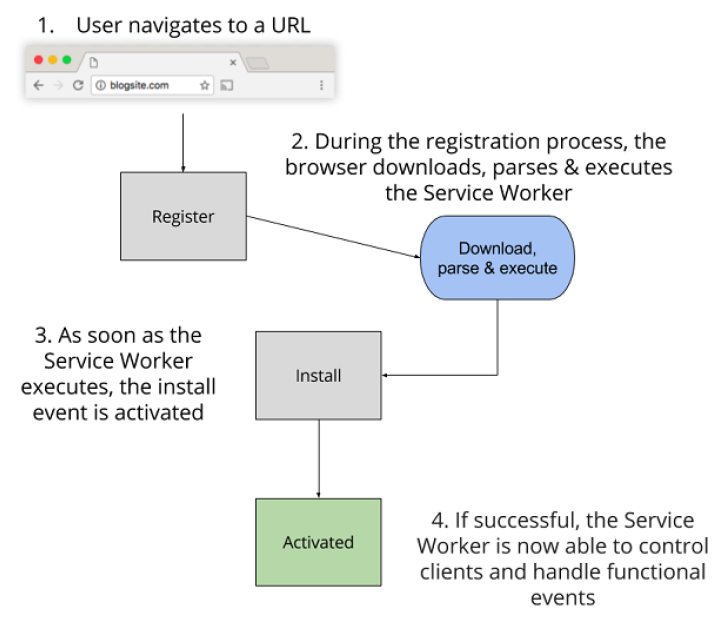
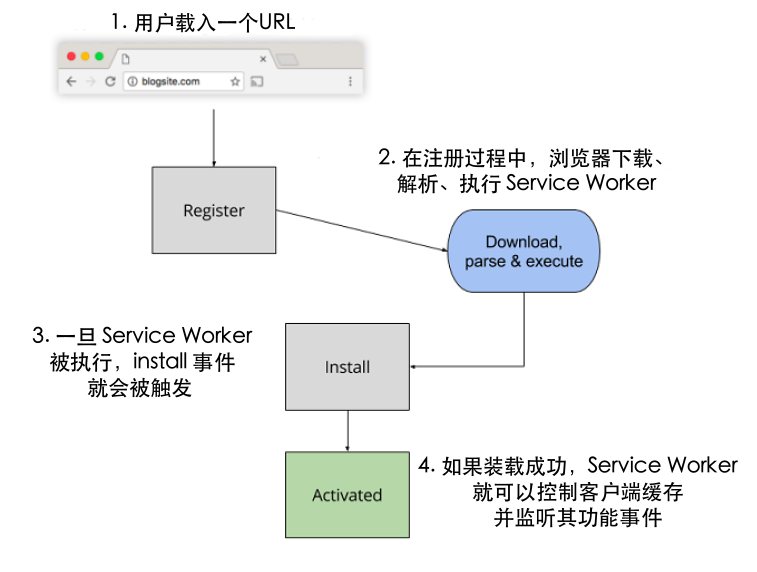
polish 4.2 and translate some images (#25)

Changed region(s): [[0.0303, 0.208, 0.9697, 0.9808], [0.0303, 0.0, 0.4242, 0.1486], [0.4242, 0.0594, 0.4848, 0.1486]]

diff --git a/ch04/4.2.md b/ch04/4.2.md
@@ -41,7 +41,7 @@ self.addEventListener('fetch', function (event) {                               
 * ❷ 检查传入的 HTTP 请求是否是 JPEG 类型的图片
 * ❸ 创建自定义 Response 并作出相应地响应
 
-在清单4.5中，代码通过监听 fetch 事件的触发来拦截任何 HTTP 请求。接下来，它判断传入请求是否是 JPEG 文件，如果是的话，就使用自定义 HTTP 响应进行响应。使用 Service Workers ，你能够创建自定义 HTTP 响应，包括编辑响应首部。此功能使得 Service Workers 极其强大，同时也可以理解为什么它们需要通过 HTTPS 提供请求。想象一下，黑客可以通过动动手指便完成一些恶意的操作！
+在清单4.5中，代码通过监听 fetch 事件的触发来拦截任何 HTTP 请求。接下来，它判断传入请求是否是 JPEG 文件，如果是的话，就使用自定义 HTTP 响应进行响应。使用 Service Workers ，你能够创建自定义 HTTP 响应，包括编辑响应首部。此功能使得 Service Workers 极其强大，同时也可以理解为什么它们需要通过 HTTPS 请求才能获取。想象一下，如果不是这样的话，黑客动动手指便可以完成一些恶意的操作！
 
 ### 4.2.1 Service Worker 生命周期
 
@@ -51,9 +51,9 @@ self.addEventListener('fetch', function (event) {                               
 
 **图4.1 Service Worker 生命周期**
 
-看过上面的图，你会想起当用户第一次访问网站的时候，并不会有激活的 Service Worker 来控制页面。只有当 Service Worker 安装完成并且用户刷新了页面或跳转至网站的其他页面，Service Worker 才会激活并开始拦截请求。
+看过上面的图，你会想到当用户第一次访问网站的时候，并不会有激活的 Service Worker 来控制页面。只有当 Service Worker 安装完成并且用户刷新了页面或跳转至网站的其他页面，Service Worker 才会激活并开始拦截请求。
 
-为了更清楚地解释这个问题，我们想象一下，一个单页应用 (SPA) 或一个加载完成后使用 AJAX 进行交互的网页。当注册并安装 Service Worker 时，我们将使用到目前为止在本书中所使用的方法，页面加载后发生的任何 HTTP 请求都将被忽略。只有当用户刷新页面，Service Worker 才会激活并开始拦截请求。这并不理想，你希望 Service Worker 能尽快开始工作，并包括在 Service Worker 未激活期间所发起的这些请求。
+为了更清楚地解释这个问题，我们想象一下，一个单页应用 (SPA) 或一个加载完成后使用 AJAX 进行交互的网页。当注册和安装 Service Worker 时，我们将使用到目前为止在本书中所介绍的方法，页面加载后发生的任何 HTTP 请求都将被忽略。只有当用户刷新页面，Service Worker 才会激活并开始拦截请求。这并不理想，你希望 Service Worker 能尽快开始工作，并包括在 Service Worker 未激活期间所发起的这些请求。
 
 如果你想要 Service Worker 立即开始工作，而不是等待用户跳转至网站的其他页面或刷新本页面，有一个小技巧，你可以用它来立即激活你的 Service Worker 。
 
@@ -64,14 +64,13 @@ self.addEventListener('install', function(event) {
   event.waitUntil(self.skipWaiting());
 });
 ```
-
-清单4.6中代码重点是在 Service Worker 的 `install` 事件的里面。通过使用 **skipWaiting()** 函数，最终会触发 activate 事件，并告知 Service Worker  立即开始工作，而无需等待用户跳转或刷新页面。
+清单4.6中的代码重点在于 Service Worker 的 install 事件里。通过使用 **skipWaiting()** 函数，最终会触发 activate 事件，并告知 Service Worker 立即开始工作，而无需等待用户跳转或刷新页面。
 
 ![Figure 4.2](../assets/figure4.2.png)
 
 **图4.2 self.skipWaiting() 会使 Service Worker 解雇当前活动的 worker 并且一旦进入等待阶段就会激活自身**
 
-**skipWaiting()** 函数强制等待中的 Service Worker 成为激活的 Service Worker 。**self.skipWaiting()** 函数还可以与 **self.clients.claim()** 一起使用，以确保底层 Service Worker 的更新立即生效。
+**skipWaiting()** 函数强制等待中的 Service Worker 被激活 。**self.skipWaiting()** 函数还可以与 **self.clients.claim()** 一起使用，以确保底层 Service Worker 的更新立即生效。
 
 下面清单4.7中的代码可以结合 `skipWaiting()` 函数，以确保 Service Worker 立即激活自身。
 
@@ -83,4 +82,4 @@ self.addEventListener('activate', function(event) {
 });
 ```
 
-同时使用清单4.6和4.7中的代码，可以开启 Service Worker 的激活。如果你的网站在页面加载后会发起复杂的 AJAX 请求，那么这些功能是完美的。如果你的网站主要是静态页面，而不是在页面加载后发起 HTTP 请求，那么你可能不需要使用这些功能。
+同时使用清单4.6和4.7中的代码，可以快速激活 Service Worker。如果你的网站在页面加载后会发起复杂的 AJAX 请求，那么这些功能对你来说是完美的。如果你的网站主要是静态页面，而不是在页面加载后发起 HTTP 请求，那么你可能不需要使用这些功能。
